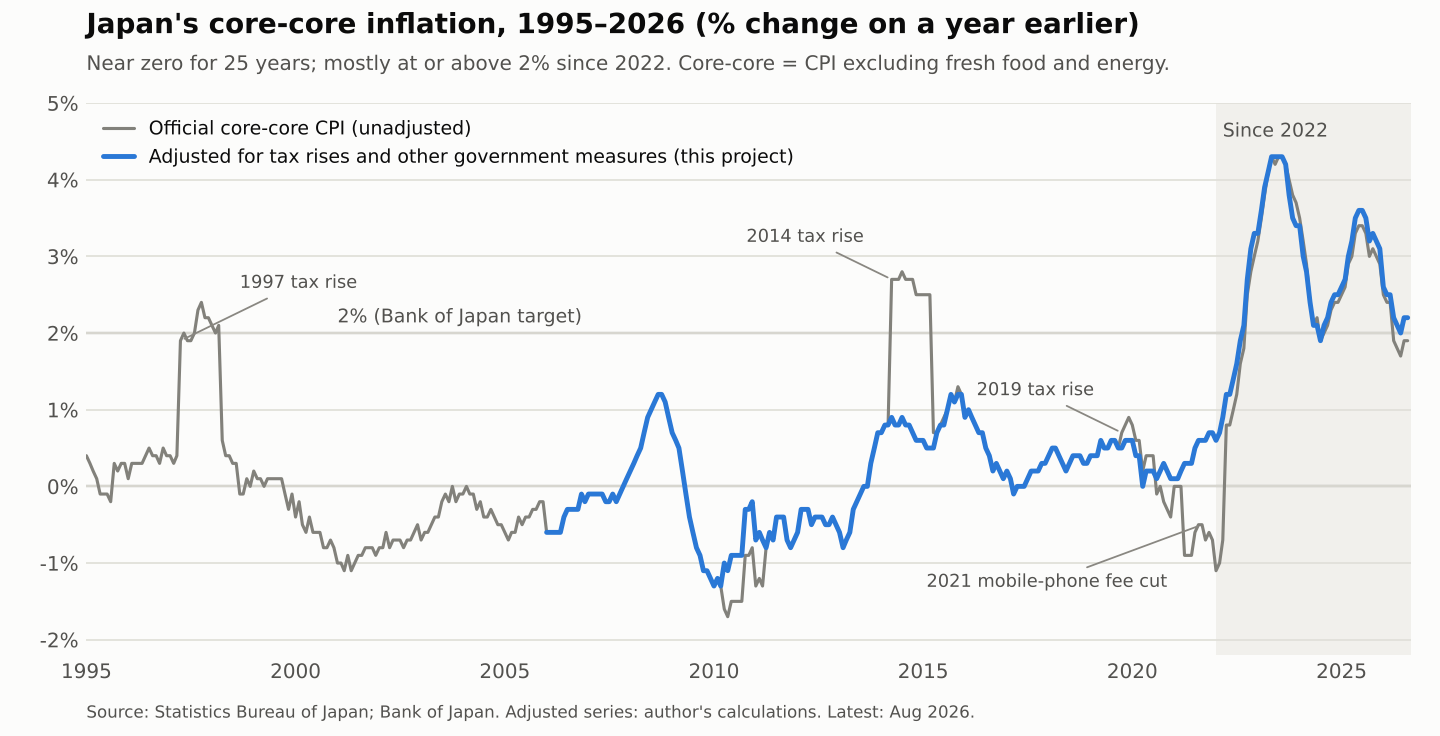
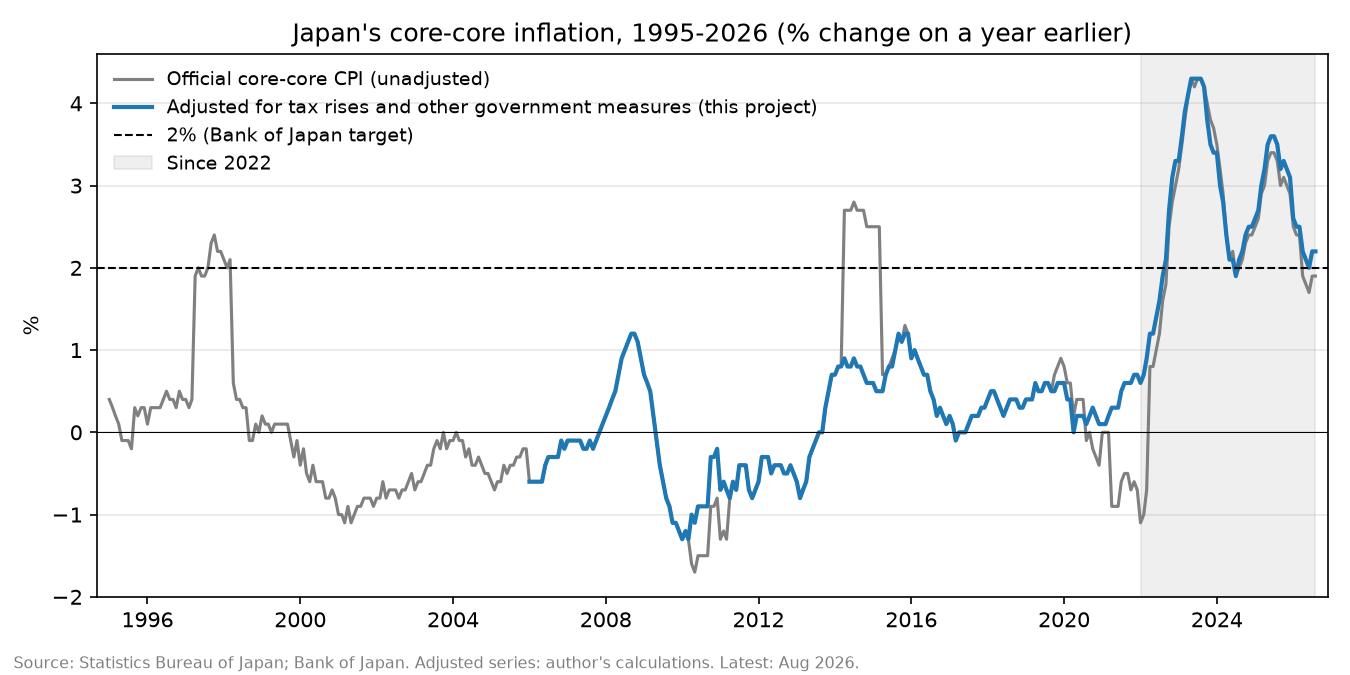
target: build policy-adjusted core-core series with tests

diff --git a/src/build_target.py b/src/build_target.py
@@ -1,0 +1,116 @@
+"""Build the forecasting target: policy-adjusted core-core CPI inflation.
+
+Core-core CPI = consumer prices excluding fresh food and energy
+(Statistics Bureau item code 0178). Inflation = % change on a year earlier.
+Policy-adjusted = without the effects of government measures: consumption-tax
+rises, free education, travel subsidies and the 2021 mobile-phone fee cut.
+
+The target joins two official series:
+
+    Jan 2006 - Dec 2015   Statistics Bureau, adjusted for consumption tax
+                          (2025taxadj.xlsx, sheet "zmy"), plus our only fix:
+                          +0.6 pp in Apr 2010 - Mar 2011 (free high-school tuition)
+    Jan 2016 onward       Bank of Japan, excluding special factors (cpirev.xlsx)
+
+Where both series exist (Jan 2016 - Jul 2020) they are identical, so the join
+is seamless. The official unadjusted series (zmy2025a.csv) is kept next to the
+target for comparison.
+
+Run from the project folder:
+    python src/build_target.py
+Output:
+    data/processed/target.csv
+"""
+
+from pathlib import Path
+
+import pandas as pd
+
+ROOT = Path(__file__).resolve().parents[1]
+RAW = ROOT / "data" / "raw"
+OUT = ROOT / "data" / "processed" / "target.csv"
+
+CORE_CORE = "0178"  # Statistics Bureau code: all items less fresh food and energy
+START, JOIN = "2006-01", "2016-01"
+TUITION_FIX = 0.6  # pp; Statistics Bureau estimate, scaled to core-core
+TUITION_MONTHS = ("2010-04", "2011-03")
+
+
+def _months(values):
+    """Turn 6-digit dates like 201004 into monthly periods."""
+    return pd.PeriodIndex(pd.to_datetime(pd.Series(values).astype(str), format="%Y%m"), freq="M")
+
+
+def read_official(path=RAW / "zmy2025a.csv"):
+    """Official core-core YoY %, as published (Statistics Bureau, e-Stat CSV)."""
+    t = pd.read_csv(path, encoding="cp932", header=None, dtype=str)
+    col = list(t.iloc[2]).index(CORE_CORE)  # row 3 holds the item codes
+    rows = t[t[0].str.fullmatch(r"\d{6}", na=False)]
+    s = pd.to_numeric(rows[col], errors="coerce")
+    s.index = _months(rows[0])
+    return s.dropna().rename("official")
+
+
+def read_tax_adjusted(path=RAW / "2025taxadj.xlsx"):
+    """Core-core YoY %, adjusted for consumption tax (Statistics Bureau), to Dec 2020."""
+    t = pd.read_excel(path, sheet_name="zmy", header=None)
+    col = list(t.iloc[2].astype(str)).index(CORE_CORE)
+    rows = t[t[0].astype(str).str.fullmatch(r"\d{6}")]
+    s = pd.to_numeric(rows[col], errors="coerce")
+    s.index = _months(rows[0])
+    return s.dropna().rename("sb_tax_adjusted")
+
+
+def read_boj(path=RAW / "cpirev.xlsx"):
+    """Core-core YoY % excluding special factors (Bank of Japan), from Jan 2016.
+
+    The file has one column per CPI base year (2015, 2020, 2025). Each month
+    appears in exactly one of them, so the three columns are combined into one.
+    (The quarterly block further right has the same name, so we also check the base.)
+    """
+    t = pd.read_excel(path, sheet_name="chart", header=None)
+    cols = [j for j in t.columns
+            if str(t.iloc[3, j]).startswith("Excluding fresh food, energy, and institutional")
+            and t.iloc[4, j] in ("2015base", "2020base", "2025base")]
+    data = t.iloc[5:].dropna(subset=[0])
+    block = data[cols].apply(pd.to_numeric, errors="coerce")
+    if (block.notna().sum(axis=1) > 1).any():
+        raise ValueError("cpirev.xlsx: a month appears in two base-year columns")
+    s = block.bfill(axis=1).iloc[:, 0]
+    s.index = pd.PeriodIndex(pd.to_datetime(data[0]), freq="M")
+    return s.dropna().rename("boj_adjusted")
+
+
+def build_target():
+    """Return a monthly table: target, official series, and the source of each month."""
+    sb = read_tax_adjusted()
+    boj = read_boj()
+    official = read_official()
+
+    early = sb.loc[START:"2015-12"].copy()
+    fix = pd.Series(0.0, index=early.index)
+    fix.loc[TUITION_MONTHS[0]:TUITION_MONTHS[1]] = TUITION_FIX
+    early = early + fix
+
+    target = pd.concat([early, boj.loc[JOIN:]]).round(1)
+    source = pd.Series("Bank of Japan, excluding special factors", index=target.index)
+    source.loc[:"2015-12"] = "Statistics Bureau, tax-adjusted"
+    source.loc[TUITION_MONTHS[0]:TUITION_MONTHS[1]] = "Statistics Bureau, tax-adjusted, +0.6 tuition fix"
+
+    out = pd.DataFrame({"target": target, "official": official.reindex(target.index), "source": source})
+    out.index.name = "month"
+    return out
+
+
+def main():
+    df = build_target()
+    OUT.parent.mkdir(parents=True, exist_ok=True)
+    df.to_csv(OUT)
+    print(f"Saved {OUT.relative_to(ROOT)}: {len(df)} months, {df.index[0]} to {df.index[-1]}")
+    print(f"Average target 2013-2021: {df.loc['2013-01':'2021-12', 'target'].mean():.2f}%, "
+          f"2022 onward: {df.loc['2022-01':, 'target'].mean():.2f}%")
+    print(f"Latest: {df.index[-1]} = {df['target'].iloc[-1]}%")
+
+
+if __name__ == "__main__":
+    main()

diff --git a/tests/test_target.py b/tests/test_target.py
@@ -1,0 +1,91 @@
+"""Checks that the target is built correctly from the raw files.
+
+Run from the project folder:
+    pytest
+"""
+
+import sys
+from pathlib import Path
+
+import pandas as pd
+import pytest
+
+sys.path.insert(0, str(Path(__file__).resolve().parents[1] / "src"))
+import build_target as bt  # noqa: E402
+
+
+@pytest.fixture(scope="module")
+def df():
+    return bt.build_target()
+
+
+@pytest.fixture(scope="module")
+def sb():
+    return bt.read_tax_adjusted()
+
+
+@pytest.fixture(scope="module")
+def boj():
+    return bt.read_boj()
+
+
+def test_sources_identical_where_they_overlap(sb, boj):
+    """Statistics Bureau and BOJ series are equal every month, Jan 2016 - Jul 2020."""
+    diff = sb.loc["2016-01":"2020-07"] - boj.loc["2016-01":"2020-07"]
+    assert len(diff) == 55
+    assert diff.abs().max() < 1e-9
+
+
+def test_join_step_matches_statistics_bureau(df, sb):
+    """The move from Dec 2015 to Jan 2016 is the same as in the Statistics Bureau's own series (-0.3)."""
+    step_target = df.loc["2016-01", "target"] - df.loc["2015-12", "target"]
+    step_sb = sb.loc["2016-01"] - sb.loc["2015-12"]
+    assert round(step_target, 1) == round(step_sb, 1) == -0.3
+
+
+def test_tuition_fix_only_in_apr2010_to_mar2011(df, sb):
+    """Our only adjustment: +0.6 pp in Apr 2010 - Mar 2011, nothing elsewhere before 2016."""
+    added = (df.loc[:"2015-12", "target"] - sb.loc["2006-01":"2015-12"]).round(1)
+    fix_months = added.loc["2010-04":"2011-03"]
+    assert len(fix_months) == 12 and (fix_months == 0.6).all()
+    assert (added.drop(fix_months.index) == 0).all()
+
+
+def test_2014_tax_rise_removed(df):
+    """The official series jumps in Apr 2014 because of the tax rise; the target does not."""
+    jump_official = df.loc["2014-04", "official"] - df.loc["2014-03", "official"]
+    jump_target = df.loc["2014-04", "target"] - df.loc["2014-03", "target"]
+    assert jump_official >= 1.5
+    assert abs(jump_target) <= 0.3
+
+
+def test_boj_series_is_monthly_from_jan_2016(boj):
+    """The BOJ file's monthly core-core columns start in Jan 2016 and have no gaps."""
+    assert boj.index[0] == pd.Period("2016-01", "M")
+    assert boj.index.equals(pd.period_range("2016-01", boj.index[-1], freq="M"))
+
+
+def test_target_equals_boj_from_2016(df, boj):
+    assert (df.loc["2016-01":, "target"] - boj.loc["2016-01":]).abs().max() < 1e-9
+
+
+def test_no_gaps(df):
+    """Every month from Jan 2006 to the latest month has a value."""
+    expected = pd.period_range("2006-01", df.index[-1], freq="M")
+    assert df.index.equals(expected)
+    assert df["target"].notna().all()
+    assert df.index[-1] >= pd.Period("2026-08", "M")
+
+
+def test_differences_from_official_only_at_listed_events(df):
+    """Before Oct 2019, the target differs from the official series only in the 2010
+    tuition months and the 2014 tax months, apart from rounding (at most 0.1 pp).
+    From Oct 2019 the differences are the BOJ's own adjustments (tax, free education,
+    travel subsidies, mobile fees), taken as published."""
+    diff = (df.loc[:"2019-09", "target"] - df.loc[:"2019-09", "official"]).round(1)
+    tuition = diff.loc["2010-04":"2011-03"]
+    tax = diff.loc["2014-04":"2015-03"]
+    assert (tuition == 0.6).all()
+    assert tax.between(-2.0, -1.8).all()
+    other = diff.drop(tuition.index).drop(tax.index).drop(pd.Period("2015-04", "M"))
+    assert other.abs().max() <= 0.1

diff --git a/src/plot_target.py b/src/plot_target.py
@@ -1,0 +1,51 @@
+"""Draw the README chart: official vs policy-adjusted core-core inflation, 1995 onward.
+
+Run from the project folder:
+    python src/plot_target.py
+Output:
+    results/figures/core_core_inflation_light.png
+"""
+
+import matplotlib
+
+matplotlib.use("Agg")  # save to file without opening a window
+import matplotlib.pyplot as plt
+import pandas as pd
+
+from build_target import ROOT, build_target, read_official
+
+OUT = ROOT / "results" / "figures" / "core_core_inflation_light.png"
+
+
+def main():
+    # The two series: official from 1995, our adjusted target from 2006
+    official = read_official().loc["1995-01":]
+    target = build_target()["target"]
+    official.index = official.index.to_timestamp()  # monthly periods -> dates, for plotting
+    target.index = target.index.to_timestamp()
+    last = target.index[-1]
+
+    fig, ax = plt.subplots(figsize=(9, 4.5), dpi=150)
+    ax.plot(official, color="gray", label="Official core-core CPI (unadjusted)")
+    ax.plot(target, color="tab:blue", linewidth=2,
+            label="Adjusted for tax rises and other government measures (this project)")
+    ax.axhline(2, color="black", linestyle="--", linewidth=1, label="2% (Bank of Japan target)")
+    ax.axhline(0, color="black", linewidth=0.5)
+    ax.axvspan(pd.Timestamp("2022-01-01"), last, color="gray", alpha=0.12, label="Since 2022")  # shaded period
+
+    ax.set_title(f"Japan's core-core inflation, 1995-{last.year} (% change on a year earlier)")
+    ax.set_ylabel("%")
+    ax.margins(x=0.01)  # no empty space at the left and right ends
+    ax.grid(axis="y", alpha=0.3)
+    ax.legend(loc="upper left", frameon=False, fontsize=9)
+    fig.text(0.01, 0.01, f"Source: Statistics Bureau of Japan; Bank of Japan. Adjusted series: author's calculations. "
+             f"Latest: {last:%b %Y}.", fontsize=7.5, color="gray")
+    fig.tight_layout(rect=(0, 0.03, 1, 1))
+
+    OUT.parent.mkdir(parents=True, exist_ok=True)
+    fig.savefig(OUT)
+    print(f"Saved {OUT.relative_to(ROOT)}")
+
+
+if __name__ == "__main__":
+    main()
